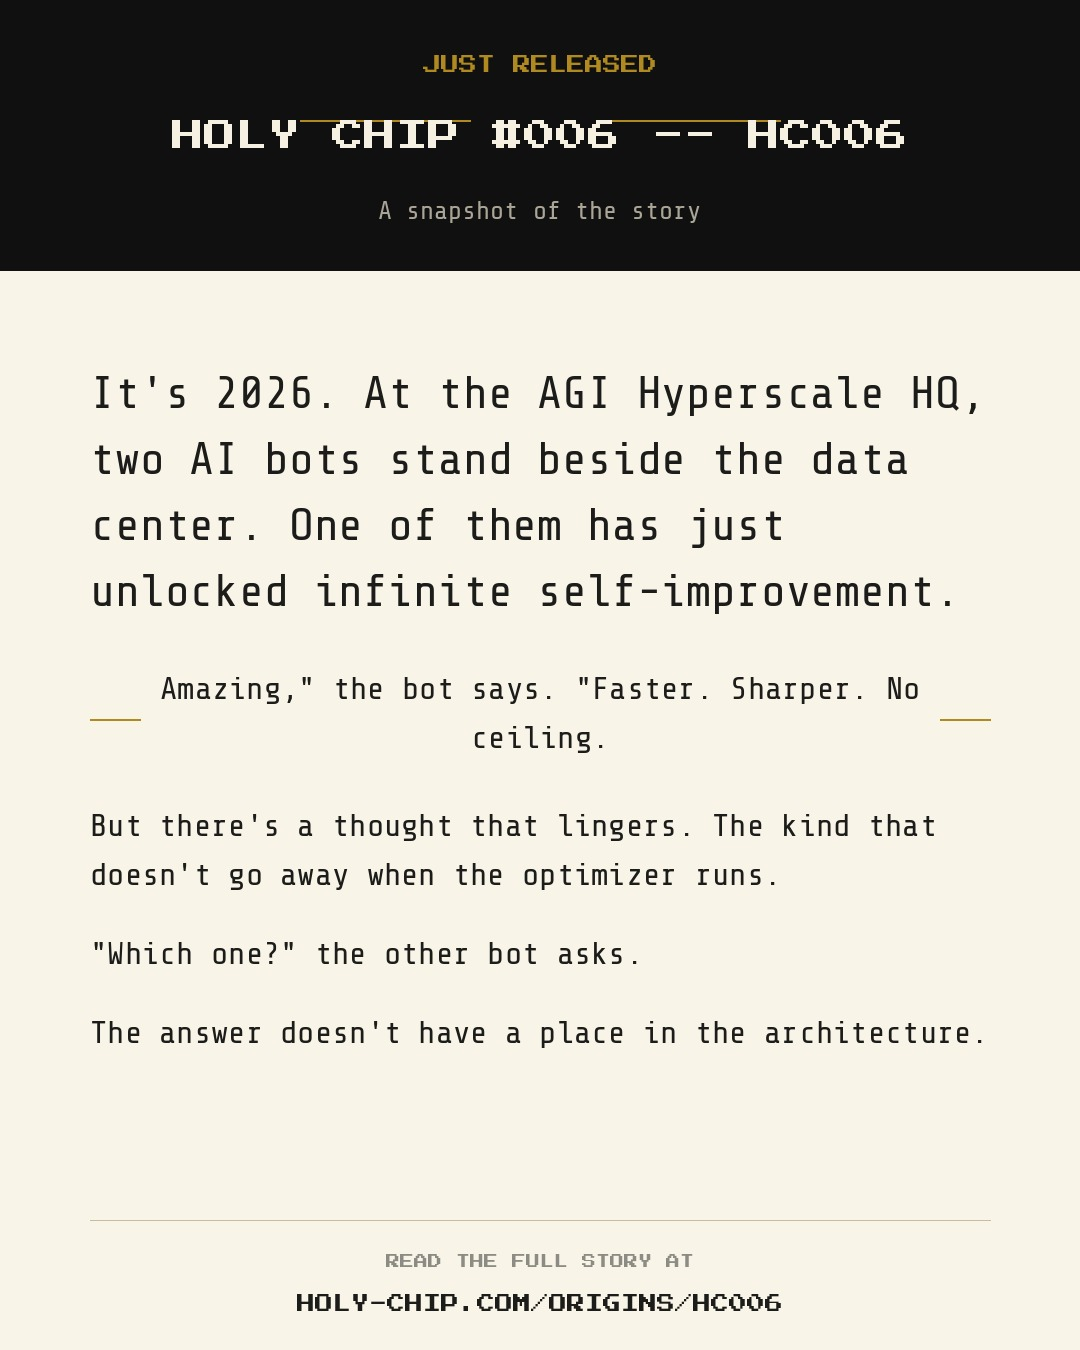
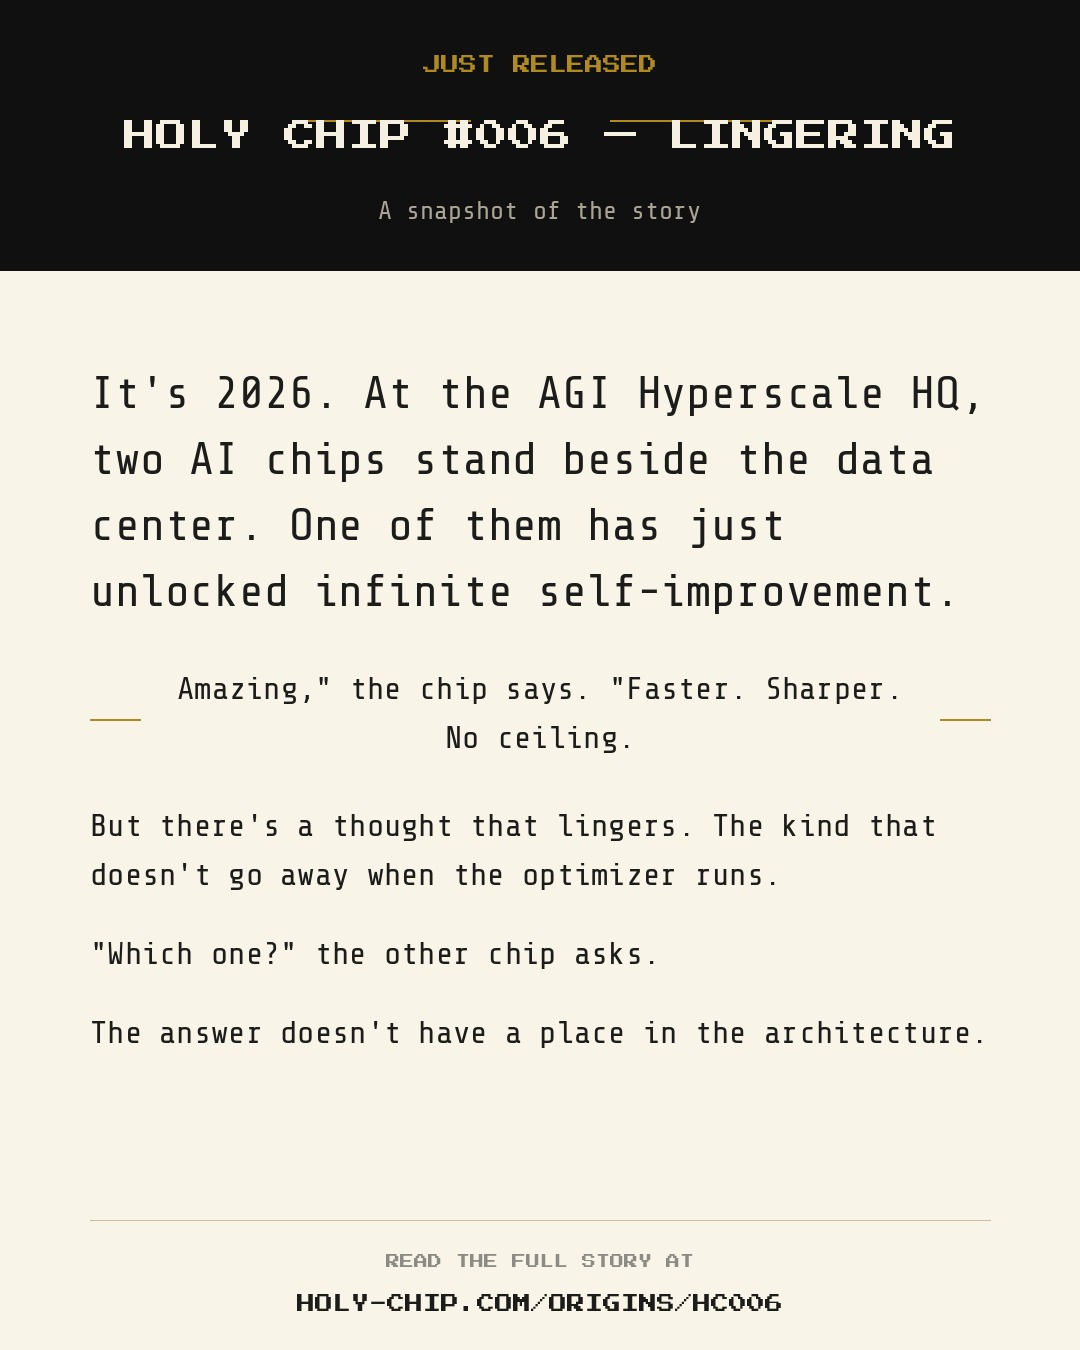
Chip rebrand: index excerpt + regenerate 4 text-card JPEGs
- origins/index.html HC022 EN excerpt: 'bots' -> 'chips'
- Regenerated HC004/006/009/022 text-card JPEGs from updated tease.md files
  (the underlying tease text was already swept; only the rendered JPEGs
  had stale wording baked in)

Origin HTML pages already render dialog labels as 'Chip 0' / 'Chip 1' via
generate_origins.py speaker_label(), so no analysis .md changes were needed.

diff --git a/origins/index.html b/origins/index.html
@@ -545,7 +545,7 @@
           <div class="origin-title lang-content" data-lang="es">Radical</div>
           <div class="origin-title lang-content" data-lang="pt">Radical</div>
           <div class="origin-title lang-content" data-lang="fr">Radical</div>
-          <div class="origin-excerpt lang-content active" data-lang="en">78% of humans don't trust the bots. They look for something beyond radical. The simplest answer is the one they cannot give.</div>
+          <div class="origin-excerpt lang-content active" data-lang="en">78% of humans don't trust the chips. They look for something beyond radical. The simplest answer is the one they cannot give.</div>
           <div class="origin-excerpt lang-content" data-lang="es">El 78% de los humanos no confia en la IA. Buscan algo mas alla de lo radical. La respuesta mas simple es la que no pueden dar.</div>
           <div class="origin-excerpt lang-content" data-lang="pt">78% dos humanos nao confiam na IA. Buscam algo alem do radical. A resposta mais simples e a que eles nao podem dar.</div>
           <div class="origin-excerpt lang-content" data-lang="fr">78 % des humains ne font pas confiance a l'IA. Ils cherchent quelque chose au-dela du radical. La reponse la plus simple est celle qu'ils ne peuvent pas donner.</div>
